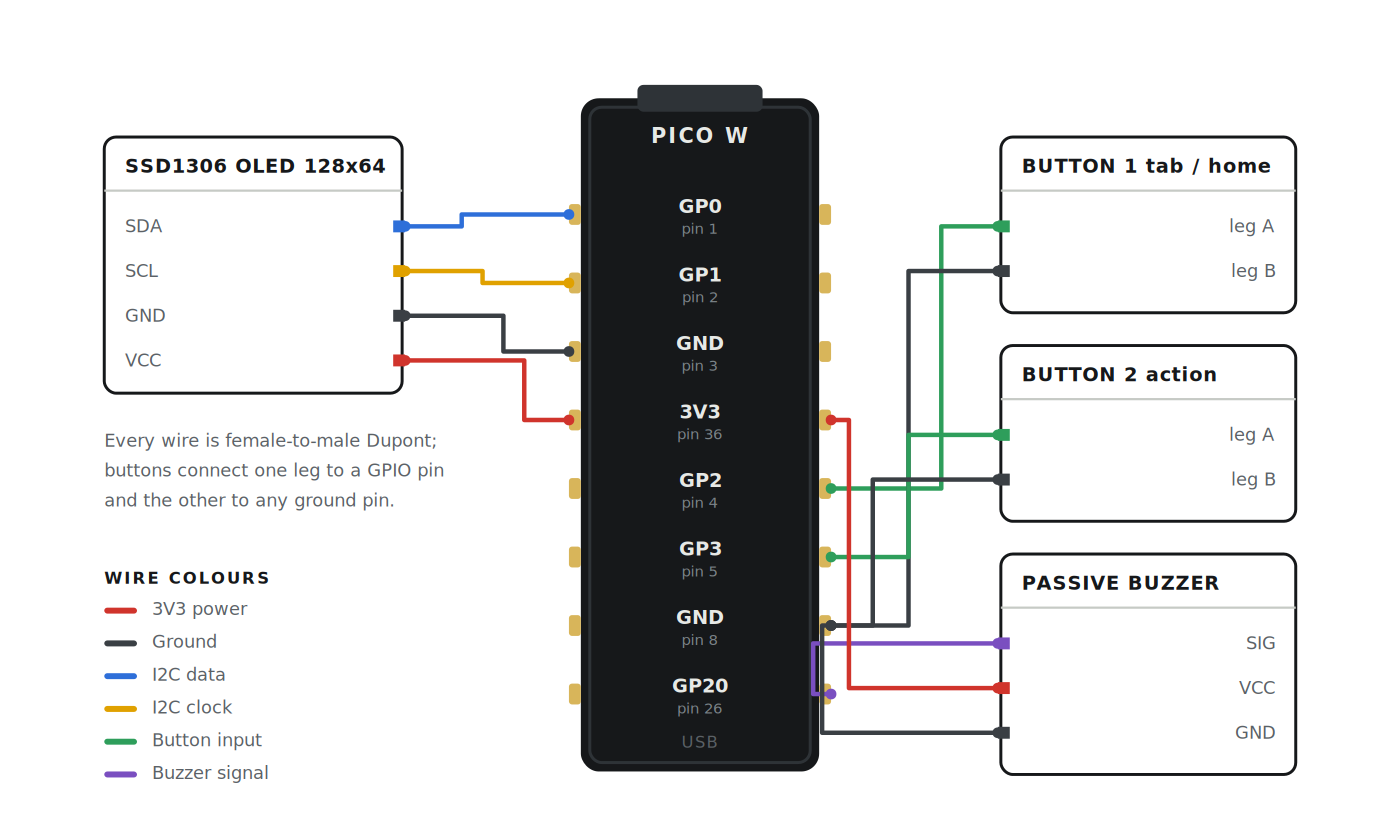
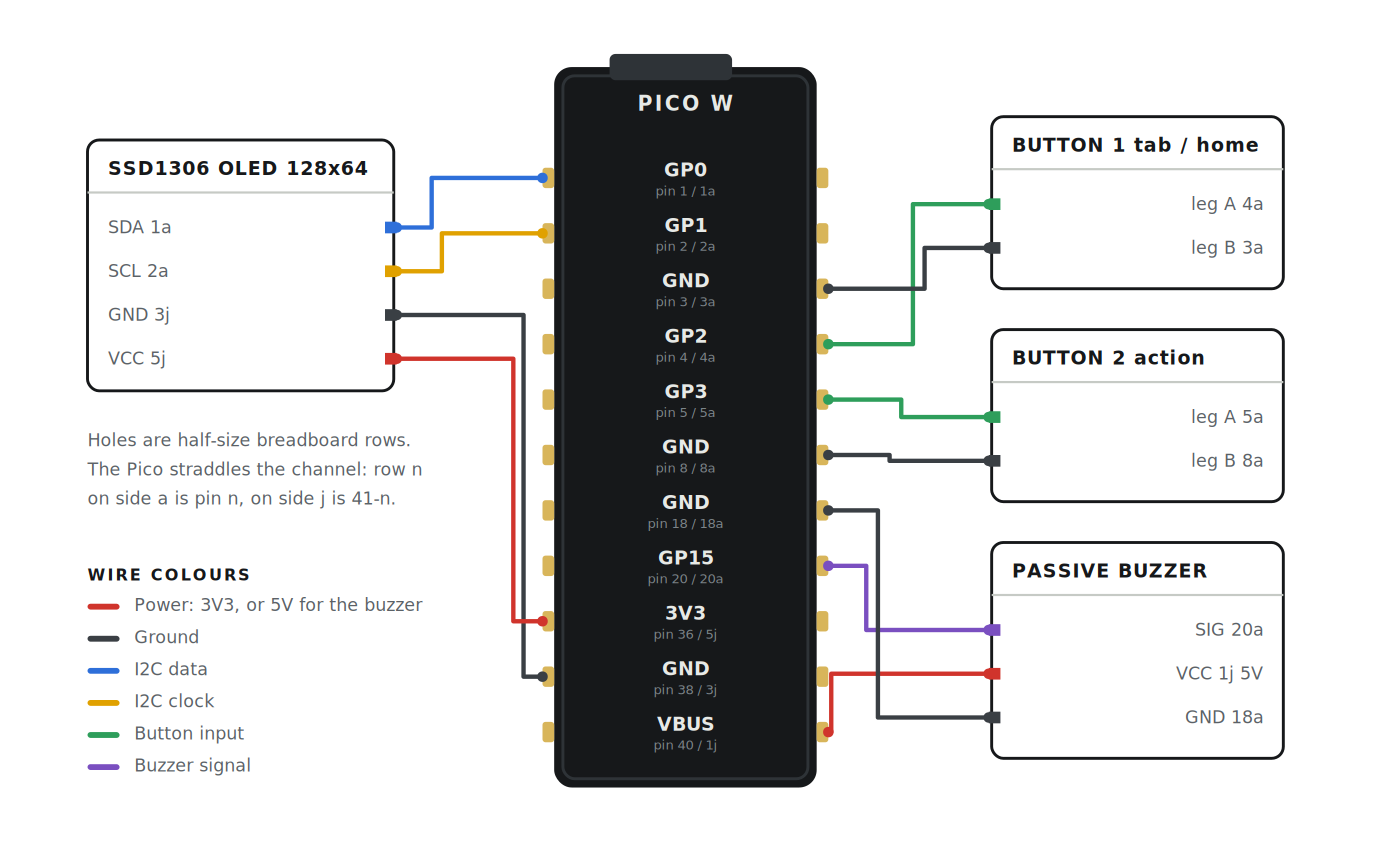
Correct wiring to real pins and breadboard holes; eight screens

Changed region(s): [[0.0614, 0.0624, 0.5836, 0.9353], [0.5529, 0.1247, 0.9521, 0.9353], [0.0614, 0.6547, 0.3071, 0.9353]]

diff --git a/docs/index.html b/docs/index.html
@@ -248,18 +248,19 @@ footer img{height:26px; width:auto; opacity:.8}
     </table>
 
     <figure>
-      <img src="assets/wiring.svg" alt="Wiring map: OLED SDA to GP0, SCL to GP1, ground to pin 3 and 3V3 to pin 36; button 1 to GP2 and button 2 to GP3 with their other legs to ground; buzzer signal to GP20 with power and ground.">
-      <figcaption>Signal map, not to scale. Physical pin numbers are on the board.</figcaption>
+      <img src="assets/wiring.svg" alt="Wiring map: OLED SDA to GP0, SCL to GP1, ground to pin 38 and 3V3 to pin 36; button 1 to GP2 and button 2 to GP3 with their other legs to ground pins 3 and 8; buzzer signal to GP15 with 5V from VBUS and ground on pin 18.">
+      <figcaption>Signal map, not to scale. Each row gives the GPIO name, the physical pin and the breadboard hole.</figcaption>
     </figure>
 
     <table class="pinmap">
-      <tr><td><span class="swatch" style="background:var(--w-sda)"></span></td><td>OLED SDA</td><td>GP0 · pin 1</td></tr>
-      <tr><td><span class="swatch" style="background:var(--w-scl)"></span></td><td>OLED SCL</td><td>GP1 · pin 2</td></tr>
-      <tr><td><span class="swatch" style="background:var(--w-gnd)"></span></td><td>OLED GND</td><td>GND · pin 3</td></tr>
-      <tr><td><span class="swatch" style="background:var(--w-vcc)"></span></td><td>OLED VCC</td><td>3V3 OUT · pin 36</td></tr>
-      <tr><td><span class="swatch" style="background:var(--w-btn)"></span></td><td>Button 1</td><td>GP2 · pin 4, other leg to GND</td></tr>
-      <tr><td><span class="swatch" style="background:var(--w-btn)"></span></td><td>Button 2</td><td>GP3 · pin 5, other leg to GND</td></tr>
-      <tr><td><span class="swatch" style="background:var(--w-buz)"></span></td><td>Buzzer signal</td><td>GP20 · pin 26, plus 3V3 and GND</td></tr>
+      <tr><td><span class="swatch" style="background:var(--w-sda)"></span></td><td>OLED SDA</td><td>GP0 · pin 1 · hole 1a</td></tr>
+      <tr><td><span class="swatch" style="background:var(--w-scl)"></span></td><td>OLED SCL</td><td>GP1 · pin 2 · hole 2a</td></tr>
+      <tr><td><span class="swatch" style="background:var(--w-gnd)"></span></td><td>OLED GND</td><td>GND · pin 38 · hole 3j</td></tr>
+      <tr><td><span class="swatch" style="background:var(--w-vcc)"></span></td><td>OLED VCC</td><td>3V3 OUT · pin 36 · hole 5j</td></tr>
+      <tr><td><span class="swatch" style="background:var(--w-btn)"></span></td><td>Button 1</td><td>GP2 · pin 4 · hole 4a, other leg to GND pin 3</td></tr>
+      <tr><td><span class="swatch" style="background:var(--w-btn)"></span></td><td>Button 2</td><td>GP3 · pin 5 · hole 5a, other leg to GND pin 8</td></tr>
+      <tr><td><span class="swatch" style="background:var(--w-buz)"></span></td><td>Buzzer signal</td><td>GP15 · pin 20 · hole 20a</td></tr>
+      <tr><td><span class="swatch" style="background:var(--w-vcc)"></span></td><td>Buzzer VCC</td><td>VBUS 5V · pin 40 · hole 1j</td></tr>
     </table>
   </div>
 </section>

diff --git a/README.md b/README.md
@@ -100,15 +100,23 @@ are sitting right there is just a dark rectangle.
   <img src="docs/assets/wiring.svg" alt="Mimic wiring map" width="760">
 </p>
 
-| Signal | Pico W pin | Goes to |
-| --- | --- | --- |
-| I2C data | `GP0` — physical pin 1 | OLED `SDA` |
-| I2C clock | `GP1` — physical pin 2 | OLED `SCL` |
-| Ground | `GND` — physical pin 3 | OLED `GND` |
-| 3V3 out | `3V3` — physical pin 36 | OLED `VCC`, buzzer `VCC` |
-| Button 1 | `GP2` — physical pin 4 | Button 1 leg A (leg B to any `GND`) |
-| Button 2 | `GP3` — physical pin 5 | Button 2 leg A (leg B to any `GND`) |
-| Buzzer | `GP20` — physical pin 26 | Buzzer `SIG` |
+| Signal | Pico W pin | Breadboard hole | Goes to |
+| --- | --- | --- | --- |
+| I2C data | `GP0` — pin 1 | 1a | OLED `SDA` |
+| I2C clock | `GP1` — pin 2 | 2a | OLED `SCL` |
+| Ground | `GND` — pin 38 | 3j | OLED `GND` |
+| 3V3 out | `3V3` — pin 36 | 5j | OLED `VCC` |
+| Button 1 | `GP2` — pin 4 | 4a | Button 1 leg A |
+| Ground | `GND` — pin 3 | 3a | Button 1 leg B |
+| Button 2 | `GP3` — pin 5 | 5a | Button 2 leg A |
+| Ground | `GND` — pin 8 | 8a | Button 2 leg B |
+| Buzzer signal | `GP15` — pin 20 | 20a | Buzzer `SIG` |
+| 5V | `VBUS` — pin 40 | 1j | Buzzer `VCC` |
+| Ground | `GND` — pin 18 | 18a | Buzzer `GND` |
+
+The Pico straddles the channel of a half-size breadboard, so row *n* on the `a`
+side is physical pin *n*, and row *n* on the `j` side is pin *41 − n*. The buzzer
+runs from `VBUS` rather than `3V3`; everything else is on the 3V3 rail.
 
 Breadboard positions for this exact build are in
 [`hardware/README.md`](hardware/README.md).

diff --git a/hardware/README.md b/hardware/README.md
@@ -7,17 +7,21 @@ trimmed off so it drops into the case tray.
 
 | Component | Connection | Breadboard hole |
 | --- | --- | --- |
-| OLED | `SDA` -> `GP0` | — |
-| OLED | `SCL` -> `GP1` | — |
-| OLED | `GND` | j3 |
-| OLED | `VCC` | i5 |
-| Button 1 | `GP2` | a4 |
-| Button 1 | `GND` | a3 |
-| Button 2 | `GP3` | a5 |
-| Button 2 | `GND` | a8 |
-| Buzzer | `SIG` -> `GP20` | a20 |
-| Buzzer | `GND` | a18 |
-| Buzzer | `VCC` | i5 |
+| OLED | `SDA` -> `GP0`, pin 1 | 1a |
+| OLED | `SCL` -> `GP1`, pin 2 | 2a |
+| OLED | `GND`, pin 38 | 3j |
+| OLED | `VCC` -> `3V3`, pin 36 | 5j |
+| Button 1 | leg A -> `GP2`, pin 4 | 4a |
+| Button 1 | leg B -> `GND`, pin 3 | 3a |
+| Button 2 | leg A -> `GP3`, pin 5 | 5a |
+| Button 2 | leg B -> `GND`, pin 8 | 8a |
+| Buzzer | `SIG` -> `GP15`, pin 20 | 20a |
+| Buzzer | `VCC` -> `VBUS`, 5V, pin 40 | 1j |
+| Buzzer | `GND`, pin 18 | 18a |
+
+Row *n* on the `a` side of the channel is physical pin *n*; row *n* on the `j`
+side is pin *41 − n*. That is the whole trick to reading this table against the
+board.
 
 Wire colours used in the diagrams: red for 3V3, dark grey for ground, blue for
 I2C data, yellow for I2C clock, green for button inputs, purple for the buzzer

diff --git a/docs/README.md b/docs/README.md
@@ -17,7 +17,7 @@ in `.github/workflows/pages.yml` then publishes `docs/` on every push to `main`.
 
 ## Before the first push
 
-Replace `YOUR-USERNAME` in these places:
+Replace `DimAnge` in these places:
 
 - `docs/index.html` — the `og:url` and `og:image` tags, three GitHub links
 - `README.md` — the site link and the footer link
